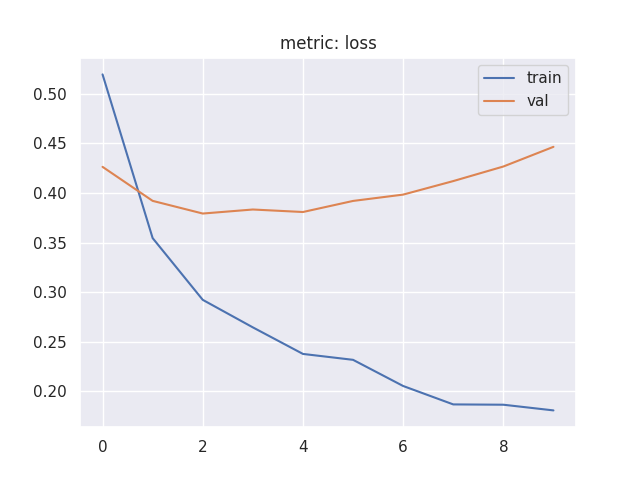
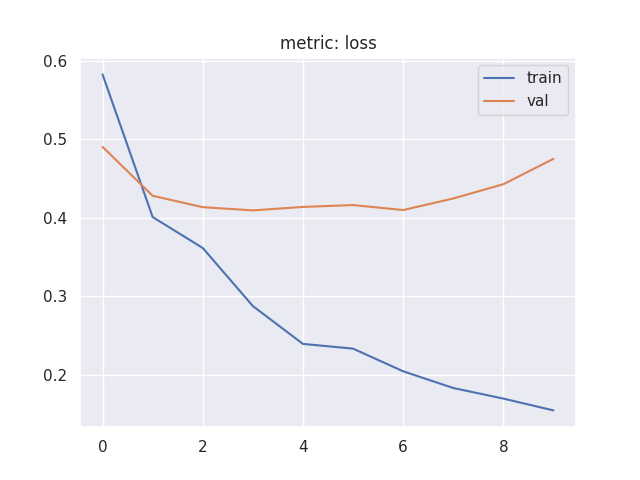
added search for embedding_dim

diff --git a/company_ratings/search_hyperparams.py b/company_ratings/search_hyperparams.py
@@ -12,7 +12,7 @@ PYTHON = sys.executable
 parser = argparse.ArgumentParser()
 parser.add_argument('--parent_dir', default='experiments/learning_rate',
                     help='Directory containing params.json')
-parser.add_argument('--data_dir', default='data/small', help="Directory containing the dataset")
+parser.add_argument('--data_dir', default='data/5w', help="Directory containing the dataset")
 
 
 def launch_training_job(parent_dir, data_dir, job_name, params):
@@ -48,12 +48,21 @@ if __name__ == "__main__":
 
     # Perform hypersearch over one parameter
     # learning_rates = [1e-3, 1e-2, 1e-1, 1]
-    learning_rates = [.8 * 1e-3, .9 * 1e-3, 1.1 * 1e-3, 1.2 * 1e-3]
+    # learning_rates = [.8 * 1e-3, .9 * 1e-3, 1.1 * 1e-3, 1.2 * 1e-3]
+    #
+    # for learning_rate in learning_rates:
+    #     # Modify the relevant parameter in params
+    #     params.learning_rate = learning_rate
+    #
+    #     # Launch job (name has to be unique)
+    #     job_name = "learning_rate_{}".format(learning_rate)
+    #     launch_training_job(args.parent_dir, args.data_dir, job_name, params)
 
-    for learning_rate in learning_rates:
+    embedding_dim = [50, 100, 150, 200, 250]
+    for dim in embedding_dim:
         # Modify the relevant parameter in params
-        params.learning_rate = learning_rate
+        params.embedding_dim = dim
 
         # Launch job (name has to be unique)
-        job_name = "learning_rate_{}".format(learning_rate)
+        job_name = "embed_dim_{}".format(dim)
         launch_training_job(args.parent_dir, args.data_dir, job_name, params)
